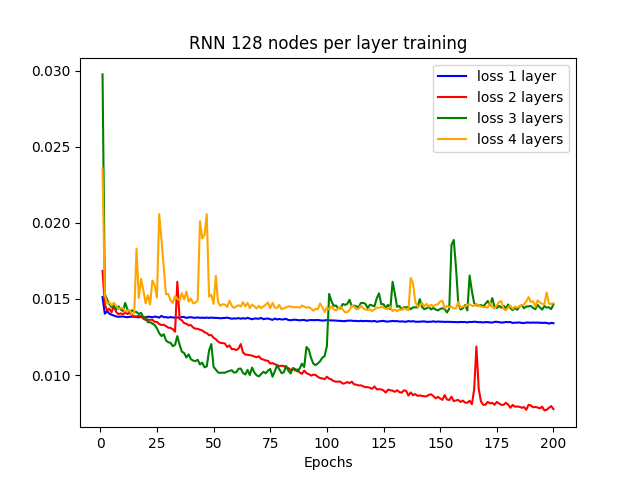
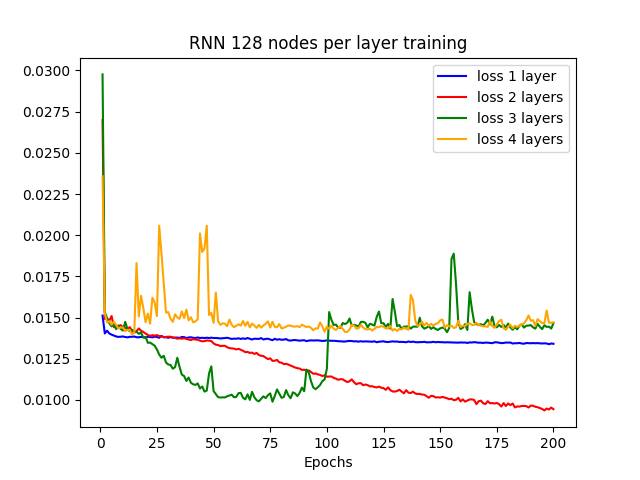
Added RNN 2_128 results

diff --git a/DL2/TESTS_RESULTS/RNN_tests/2_layer_128_nodes/RNN.py b/DL2/TESTS_RESULTS/RNN_tests/2_layer_128_nodes/RNN.py
@@ -1,0 +1,62 @@
+from keras.layers import SimpleRNN, Dense, Activation, Dropout, Flatten
+from keras.preprocessing import sequence
+from keras.models import Sequential
+from keras.optimizers import Adam
+from keras.callbacks import ModelCheckpoint
+from sklearn.preprocessing import MinMaxScaler
+import numpy as np
+import pickle
+
+def prepare_notes(notes):
+    scaler = MinMaxScaler(feature_range=(0,1))
+    scaler.fit(np.array(notes).reshape(-1,1))
+    notes = list(scaler.transform(np.array(notes).reshape(-1,1)))
+    # LSTM layers requires that data must have a certain shape
+    # create list of lists fist
+    notes = [list(note) for note in notes]
+
+    # subsample data for training and prediction
+    X = []
+    y = []
+    # number of notes in a batch
+    n_prev = 30
+    for i in range(len(notes)-n_prev):
+        X.append(notes[i:i+n_prev])
+        y.append(notes[i+n_prev])
+    return X, y, scaler
+
+# Modify conveniently with the path for your data
+data_train_path = '../data/notes_train2'
+with open(data_train_path, 'rb') as f:
+    notes_train = pickle.load(f)
+data_test_path = '../data/notes_test2'
+with open(data_test_path, 'rb') as f:
+    notes_test = pickle.load(f)
+
+x_train, y_train, scaler = prepare_notes(notes_train)
+x_test, y_test, _ = prepare_notes(notes_test)
+
+
+n_prev = 30
+model = Sequential()
+model.add(SimpleRNN(128, input_shape=(n_prev, 1), return_sequences=True))
+model.add(SimpleRNN(128, return_sequences=False))
+model.add(Dense(1))
+model.add(Activation('linear'))
+optimizer = Adam(lr=0.001)
+model.compile(loss='mse', optimizer=optimizer, metrics=['accuracy'])
+
+hist = model.fit(np.array(x_train), np.array(y_train),
+    batch_size=64, epochs=200, verbose=1,
+    validation_data=(np.array(x_test), np.array(y_test)))
+
+prediction = model.predict(np.array(x_test))
+prediction = np.squeeze(prediction)
+prediction = np.squeeze(scaler.inverse_transform(prediction.reshape(-1,1)))
+prediction = [int(i) for i in prediction]
+
+with open('notes_result', 'wb') as filepath:
+    pickle.dump(prediction, filepath)
+
+with open('trainHistoryDict', 'wb') as file_pi:
+    pickle.dump(hist.history, file_pi)
